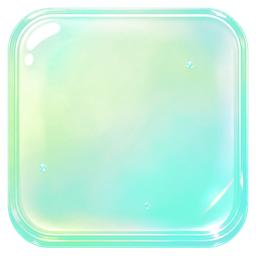
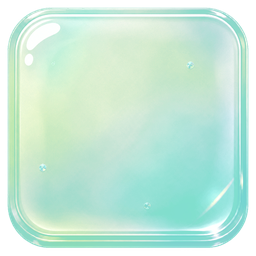
타일 팔레트를 지각 색공간에서 다시 맞춰 파스텔로 낮춤
HLS 가 잘못된 자였다. 여섯 장을 전부 HLS 채도 60% 로 맞춰 놓고 균일하다고
판단했는데, 실제 지각 채도는 13.9(peach)~24.5(lilac), 지각 명도는
L* 83.5~93.2 로 벌어져 있었다. 같은 HLS 수치에서 노랑과 초록은 파랑이나
분홍보다 훨씬 밝고 훨씬 진하게 안착한다. 그래서 lemon 과 mint 만 형광처럼
튀고 나머지는 죽어 보였다. 측정값은 균일한데 눈에는 전혀 아니었다.

CIELAB 으로 옮겼다. L*C*h 는 지각적으로 고르므로 같은 수치가 눈에도 같다.
여섯 장을 L*89 로 통일하고 채도를 파스텔 수준으로 낮췄다.
결과: L* 88.9~89.1 (편차 0.2), C* 13.4~19.0.

채도를 하나로 통일하지는 않았다. 같은 C* 에서 노랑과 주황은 베이지처럼
탁해 보이고 파랑과 보라는 과해 보인다. 따뜻한 쪽에 몇 점 더 준다.

앞 커밋에서 lemon 을 #E8EE72 로 옮긴 것은 과교정이었다. peach 와 분리되기는
하지만(h* 104) 노랑-초록 구간이라 파스텔 채도에서는 카키로 읽힌다. 노랑은
올리브와 애시드 사이 여유가 거의 없다. #FFE178(h* 91) 이 그 안이다.
peach 도 #FFA678(h* 59) 로 옮겨 둘 사이를 32도로 벌렸다. 원조 조합은
Lab 에서 8도 차이였으므로 붙어 있다는 판단 자체는 맞았고, 옮긴 거리가
틀렸던 것이다.

L*89 는 숫자가 정한 하한이다. 잉크 #425374 기준 5.66:1 이고 L*80 까지
내려가면 4.48:1 로 WCAG AA 를 통과하지 못한다.

검증: npm test 71/71, npm run build, 4개 해상도 x 4개 스테이지 이상 없음.

Claude-Session: https://claude.ai/code/session_018PNvCciUPJyfMsFQNjkdTe

Changed region(s): [[0.4688, 0.7188, 0.8438, 0.9688], [0.875, 0.4375, 0.9688, 0.9375]]

diff --git a/tools/build-tiles-v5.py b/tools/build-tiles-v5.py
@@ -1,26 +1,29 @@
 #!/usr/bin/env python3
-"""Build the v5 syrup tiles: one saturation, evenly spaced hues.
+"""Build the v5 syrup tiles: one pastel family, measured in CIELAB.
 
-The v4 set graded the master toward six hand-picked colors at a fixed blend
-strength. Because those colors did not share a saturation, the finished tiles
-landed anywhere from 7.9% (aqua) to 82.3% (peach) — half the board read as
-colour and half read as grime, which is what made the board look stained
-rather than rainbow. Three of the six hues also sat within 33 degrees of each
-other, so the set spent its variety in the orange wedge and had nothing left
-for the cool end.
+The v4 set graded the master toward six hand-picked colours at a fixed blend
+strength. Because those colours did not share a saturation, the finished tiles
+landed anywhere from 7.9% to 82.3% — half the board read as colour and half
+read as grime, which is what made the board look stained rather than pretty.
 
-v5 fixes the palette by construction. Hues are spaced around the wheel, and the
-blend strength for each tile is solved numerically so every finished tile
-measures the same face saturation. Lightness is then normalised so the numerals
-keep one contrast ratio everywhere on the board.
+v5 grades the same master toward the same approved palette and then normalises
+what the tile actually measures, so the set is even by construction rather than
+by luck. Two corrections sit on top of that: the warm pair moves apart, because
+peach and lemon were eight degrees from each other, and chroma varies slightly
+per hue, because equal chroma does not look equal.
 
-Colour carries no game meaning in v5 — js/ui.js assigns it from the cell's
-position, never its value — so the palette only has to be calm and even.
+The ruler is L*C*h, not HLS. Normalising on HLS saturation produced a set that
+measured uniform and looked fluorescent: at identical HLS numbers, yellow and
+green land far lighter and far more chromatic than blue or pink. See the notes
+on CONCEPT_PALETTE and TARGET_LIGHTNESS_LAB for the numbers.
+
+Colour carries no game meaning — js/ui.js assigns it from the cell's position,
+never its value — so the palette only has to be calm and even.
 """
 
 from __future__ import annotations
 
-import colorsys
+import math
 from pathlib import Path
 
 from PIL import Image, ImageChops, ImageOps
@@ -42,38 +45,56 @@ OUT = ROOT / "assets/ui/tiles-syrup-v5"
 #   mint  #7FD6C2  166°     orange and the set had no yellow at all
 #   aqua  #8DB7FF  218°     lilac #C9B0FF  259°
 #
-# `lemon` moves to a true yellow and keeps its light, buttery character. The
-# other five are untouched.
+# Measured in CIELAB the two warm tiles really were on top of each other, so
+# both move; the cool four are untouched. Rendered hues, h*:
 #
-# Targets are aimed, not final: the master carries a warm cast of its own, so a
-# target lands a few degrees below where it is aimed and yellows drift hardest.
-# `lemon` is aimed at 63° to render at 55°, which is where it finally separates
-# from peach. The build prints both numbers, so re-aim against that table rather
-# than against the hex.
+#   peach #FFB766 -> 74    lemon #FFDFA6 -> 82    eight degrees apart
+#   peach #FFA678 -> 59    lemon #FFE178 -> 91    thirty-two, and both clean
+#
+# An earlier pass aimed lemon at #E8EE72, which does separate (h* 104) but lands
+# in yellow-green: at pastel chroma that reads as khaki, not as lemon. Yellow
+# has very little room between "olive" and "acid", and h* 91 is inside it.
+#
+# The second number is each tile's chroma, and it is deliberately not constant.
+# Equal C* across the wheel does not look equal: yellow and orange go beige and
+# dirty at the chroma that keeps blue and violet from turning garish. The warm
+# tiles carry a few points more so the whole set reads as one pastel family.
+#
+# Targets are aimed, not final — the master has a warm cast, so a tile renders a
+# little below where it is aimed. The build prints both, so re-aim against that
+# table rather than against the hex.
 CONCEPT_PALETTE = {
-    "blush": (255, 123, 168),
-    "peach": (255, 183, 102),
-    "lemon": (232, 238, 114),
-    "mint": (127, 214, 194),
-    "aqua": (141, 183, 255),
-    "lilac": (201, 176, 255),
+    "blush": ((255, 123, 168), 15.0),
+    "peach": ((255, 166, 120), 19.0),
+    "lemon": ((255, 225, 120), 19.0),
+    "mint": ((127, 214, 194), 16.0),
+    "aqua": ((141, 183, 255), 15.0),
+    "lilac": ((201, 176, 255), 15.0),
 }
 
-# Measured on the tile face (centre 40%), matching how the v4 set was audited.
+# Measured on the tile face (centre 40%) in CIELAB, not HLS.
 #
-# Saturation is capped by the numerals, not by taste. The ink is #425374, and
-# the tile has to stay light enough underneath it to clear WCAG AA (4.5:1).
-# Measured at hue 52° (yellow, the worst case of the six):
+# HLS was the wrong ruler. Holding all six at 60% HLS saturation produced a set
+# whose perceived chroma ranged 13.9 (peach) to 24.5 (lilac) and whose perceived
+# lightness ranged L* 83.5 to 93.2. Yellow and green land far lighter and far
+# more chromatic than blue or pink at identical HLS numbers, so lemon and mint
+# read as fluorescent while the rest read as muted — a set that measured uniform
+# and looked nothing of the sort.
 #
-#   saturation 60% / lightness 86%   ->  5.07:1   ok
-#   saturation 70% / lightness 82%   ->  4.36:1   fails AA
-#   saturation 78% / lightness 78%   ->  3.74:1   fails AA
+# L*C*h is perceptually even, so equal numbers here mean equal to the eye.
 #
-# So the board cannot get its contrast from deeper tiles. It gets it from
-# css/ui-chrome.css instead, which pushes the painted chrome behind the board
-# back so the tiles are the only saturated thing on screen.
-TARGET_SATURATION = 0.60
-TARGET_LIGHTNESS = 0.86
+# Chroma is set per tile in CONCEPT_PALETTE above; BASE_CHROMA is the floor the
+# cool hues sit on. L* is shared by all six and is bounded below by the
+# numerals — the ink is #425374 and the tile has to stay light enough beneath it
+# to clear WCAG AA (4.5:1):
+#
+#   L* 90  ->  5.79:1      L* 86  ->  5.24:1
+#   L* 89  ->  5.66:1      L* 80  ->  4.48:1   fails AA
+#
+# So the board cannot get contrast from deeper tiles. It would have to come
+# from pushing the painted chrome behind the board back instead.
+BASE_CHROMA = 15.0
+TARGET_LIGHTNESS_LAB = 89.0
 
 
 def normalized_master() -> Image.Image:
@@ -110,6 +131,47 @@ def face_pixels(image: Image.Image) -> list[tuple[int, int, int, int]]:
     return [pixel for pixel in face.getdata() if pixel[3] > 200]
 
 
+_WHITE = (0.95047, 1.0, 1.08883)
+
+
+def _to_linear(channel: float) -> float:
+    v = channel / 255
+    return v / 12.92 if v <= 0.04045 else ((v + 0.055) / 1.055) ** 2.4
+
+
+def _from_linear(value: float) -> float:
+    v = value if value > 0 else 0.0
+    v = 12.92 * v if v <= 0.0031308 else 1.055 * (v ** (1 / 2.4)) - 0.055
+    return min(255.0, max(0.0, v * 255))
+
+
+def rgb_to_lab(red: float, green: float, blue: float) -> tuple[float, float, float]:
+    r, g, b = _to_linear(red), _to_linear(green), _to_linear(blue)
+    x = (r * 0.4124564 + g * 0.3575761 + b * 0.1804375) / _WHITE[0]
+    y = (r * 0.2126729 + g * 0.7151522 + b * 0.0721750) / _WHITE[1]
+    z = (r * 0.0193339 + g * 0.1191920 + b * 0.9503041) / _WHITE[2]
+
+    def f(t: float) -> float:
+        return t ** (1 / 3) if t > 0.008856 else 7.787 * t + 16 / 116
+
+    fx, fy, fz = f(x), f(y), f(z)
+    return 116 * fy - 16, 500 * (fx - fy), 200 * (fy - fz)
+
+
+def lab_to_rgb(lightness: float, a: float, b: float) -> tuple[float, float, float]:
+    fy = (lightness + 16) / 116
+    fx, fz = fy + a / 500, fy - b / 200
+
+    def g(t: float) -> float:
+        return t ** 3 if t ** 3 > 0.008856 else (t - 16 / 116) / 7.787
+
+    x, y, z = g(fx) * _WHITE[0], g(fy) * _WHITE[1], g(fz) * _WHITE[2]
+    r = x * 3.2404542 + y * -1.5371385 + z * -0.4985314
+    gg = x * -0.9692660 + y * 1.8760108 + z * 0.0415560
+    bb = x * 0.0556434 + y * -0.2040259 + z * 1.0572252
+    return _from_linear(r), _from_linear(gg), _from_linear(bb)
+
+
 def mean_rgb(image: Image.Image) -> tuple[float, float, float]:
     pixels = face_pixels(image)
     count = len(pixels)
@@ -118,38 +180,40 @@ def mean_rgb(image: Image.Image) -> tuple[float, float, float]:
             sum(p[2] for p in pixels) / count)
 
 
-def measure(image: Image.Image) -> tuple[float, float]:
-    red, green, blue = mean_rgb(image)
-    _, lightness, saturation = colorsys.rgb_to_hls(red / 255, green / 255, blue / 255)
-    return saturation, lightness
+def measure(image: Image.Image) -> tuple[float, float, float]:
+    """Mean lightness, chroma and hue of the tile face, in L*C*h."""
+    lightness, a, b = rgb_to_lab(*mean_rgb(image))
+    return lightness, math.hypot(a, b), math.degrees(math.atan2(b, a)) % 360
 
 
-def normalize(image: Image.Image) -> Image.Image:
+def normalize(image: Image.Image, target_chroma: float = BASE_CHROMA) -> Image.Image:
     """Scale saturation and shift lightness so the face lands on the targets.
 
-    Blend strength alone cannot do this: the master already measures 65.8%
-    saturation, so no amount of blending toward a warm hue brings blush, peach
-    or lemon down to 45%. Saturation is scaled by one shared factor and
-    lightness shifted by one shared offset, which moves the whole tile onto the
-    target while leaving the master's own shading — and the multicoloured
-    refraction inside the syrup — intact.
+    Blend strength alone cannot do this: the master carries chroma of its own,
+    so no amount of blending toward a pale hue lands every tile in the same
+    place. Chroma is scaled by one shared factor and lightness shifted by one
+    shared offset, which moves the whole tile onto the target while leaving the
+    master's own shading — and the iridescent refraction inside the syrup —
+    intact, since both operations preserve relative variation.
     """
-    saturation, lightness = measure(image)
-    factor = TARGET_SATURATION / saturation if saturation > 0 else 1.0
-    delta = TARGET_LIGHTNESS - lightness
+    lightness, chroma, _ = measure(image)
+    factor = target_chroma / chroma if chroma > 0 else 1.0
+    delta = TARGET_LIGHTNESS_LAB - lightness
 
+    cache: dict[tuple[int, int, int], tuple[int, int, int]] = {}
     out = []
     for red, green, blue, alpha in image.getdata():
         if alpha == 0:
             out.append((red, green, blue, alpha))
             continue
-        hue, pixel_l, pixel_s = colorsys.rgb_to_hls(red / 255, green / 255, blue / 255)
-        nr, ng, nb = colorsys.hls_to_rgb(
-            hue,
-            min(1.0, max(0.0, pixel_l + delta)),
-            min(1.0, pixel_s * factor),
-        )
-        out.append((round(nr * 255), round(ng * 255), round(nb * 255), alpha))
+        key = (red, green, blue)
+        moved = cache.get(key)
+        if moved is None:
+            pixel_l, a, b = rgb_to_lab(red, green, blue)
+            nr, ng, nb = lab_to_rgb(min(100.0, max(0.0, pixel_l + delta)), a * factor, b * factor)
+            moved = (round(nr), round(ng), round(nb))
+            cache[key] = moved
+        out.append((*moved, alpha))
     result = Image.new("RGBA", image.size)
     result.putdata(out)
     return result
@@ -160,24 +224,24 @@ def normalize(image: Image.Image) -> Image.Image:
 GRADE_STRENGTH = 0.85
 
 
-def grade(master: Image.Image, target_rgb: tuple[int, int, int]) -> Image.Image:
-    return normalize(tint_preserving_iridescence(master, target_rgb, GRADE_STRENGTH))
+def grade(master: Image.Image, target_rgb: tuple[int, int, int],
+          chroma: float = BASE_CHROMA) -> Image.Image:
+    return normalize(tint_preserving_iridescence(master, target_rgb, GRADE_STRENGTH), chroma)
 
 
 def main() -> None:
     OUT.mkdir(parents=True, exist_ok=True)
     master = normalized_master()
 
-    print(f"{'tile':8} {'target':9} {'saturation':>11} {'lightness':>10} {'hue':>6}")
-    print("-" * 50)
-    for name, target in CONCEPT_PALETTE.items():
-        compact = grade(master, target).resize((256, 256), Image.Resampling.LANCZOS)
+    print(f"{'tile':8} {'target':9} {'L*':>7} {'C*':>7} {'h':>7}")
+    print("-" * 42)
+    for name, (target, chroma) in CONCEPT_PALETTE.items():
+        compact = grade(master, target, chroma).resize((256, 256), Image.Resampling.LANCZOS)
         compact.save(OUT / f"tile-{name}.png", optimize=True)
         compact.save(OUT / f"tile-{name}.webp", format="WEBP", lossless=True, method=6)
-        saturation, lightness = measure(compact)
-        hue = colorsys.rgb_to_hls(*[c / 255 for c in mean_rgb(compact)])[0] * 360
+        lightness, chroma, hue = measure(compact)
         print(f"{name:8} #{target[0]:02X}{target[1]:02X}{target[2]:02X}  "
-              f"{saturation * 100:10.1f}% {lightness * 100:9.1f}% {hue:5.0f}°")
+              f"{lightness:7.1f} {chroma:7.1f} {hue:6.0f}°")
 
 
 if __name__ == "__main__":

diff --git a/ASSET_USAGE.md b/ASSET_USAGE.md
@@ -2,7 +2,7 @@
 
 배포 에셋은 `oing-toss-assets-v1/` 원본을 기준으로 사용했다. 캐릭터·아이콘·UI는 lossless WebP 원본을 유지하고, 배경 두 장만 실제 화면 비교 후 WebP quality 86으로 재압축했다. 콘셉트 보드나 마스터 시트의 일부는 다시 크롭하지 않았다.
 
-플레이 타일은 콘셉트 보드를 자르지 않고, 이미지 생성으로 만든 독립 `tile-master-v3`를 크로마키 제거한 뒤 512×512에서 색상·상태별 lossless WebP로 파생했다. 숫자는 계속 HTML 텍스트로 렌더링한다.
+플레이 타일은 콘셉트 보드를 자르지 않고, 이미지 생성으로 만든 독립 마스터를 크로마키 제거한 뒤 색상·상태별 lossless WebP로 파생했다. 타일 색은 숫자가 아니라 칸 위치가 정하므로(`js/ui.js`) 색이 답을 알려주지 않는다. 숫자는 계속 HTML 텍스트로 렌더링한다.
 
 하단 아이템은 숫자 타일 에셋과 분리한 4개의 작은 토이 버튼으로 통일했다. 버튼 셸은 CSS로 크림·민트·코랄·하늘색의 도톰한 표면과 눌림 깊이를 만들고, 아이콘·이름·남은 횟수는 독립 이미지와 HTML 텍스트로 렌더링한다.
 
@@ -25,12 +25,12 @@
 | `assets/ui/logo.webp` | `oing-toss-assets-v1/assets/ui/logo.webp` | 홈 로고 | 142–212px |
 | `assets/ui/button-settings.webp` | `oing-toss-assets-v1/assets/ui/button-settings.webp` | 홈 설정 | 39–44px |
 | `assets/ui/button-pause.webp` | `oing-toss-assets-v1/assets/ui/button-pause.webp` | 플레이 일시정지 | 43–48px |
-| `assets/ui/tiles-syrup-v5/tile-blush.webp` | 컨셉보드 승인색 `#FF7BA8`를 `tools/build-tiles-v5.py`로 마스터에 재계조 | 보드 타일 350° | 256×256 원본, 셀 약 44–59px |
-| `assets/ui/tiles-syrup-v5/tile-peach.webp` | 컨셉보드 승인색 `#FFB766`를 `tools/build-tiles-v5.py`로 마스터에 재계조 | 보드 타일 31° | 256×256 원본, 셀 약 44–59px |
-| `assets/ui/tiles-syrup-v5/tile-lemon.webp` | 컨셉보드 승인색 `#E8EE72`를 `tools/build-tiles-v5.py`로 마스터에 재계조 | 보드 타일 55° | 256×256 원본, 셀 약 44–59px |
-| `assets/ui/tiles-syrup-v5/tile-mint.webp` | 컨셉보드 승인색 `#7FD6C2`를 `tools/build-tiles-v5.py`로 마스터에 재계조 | 보드 타일 146° | 256×256 원본, 셀 약 44–59px |
-| `assets/ui/tiles-syrup-v5/tile-aqua.webp` | 컨셉보드 승인색 `#8DB7FF`를 `tools/build-tiles-v5.py`로 마스터에 재계조 | 보드 타일 222° | 256×256 원본, 셀 약 44–59px |
-| `assets/ui/tiles-syrup-v5/tile-lilac.webp` | 컨셉보드 승인색 `#C9B0FF`를 `tools/build-tiles-v5.py`로 마스터에 재계조 | 보드 타일 286° | 256×256 원본, 셀 약 44–59px |
+| `assets/ui/tiles-syrup-v5/tile-blush.webp` | 컨셉보드 승인색 `#FF7BA8`를 `tools/build-tiles-v5.py`로 마스터에 재계조 | 보드 타일 L*89 C*14 h8° | 256×256 원본, 셀 약 44–59px |
+| `assets/ui/tiles-syrup-v5/tile-peach.webp` | 컨셉보드 승인색 `#FFA678`를 `tools/build-tiles-v5.py`로 마스터에 재계조 | 보드 타일 L*89 C*19 h59° | 256×256 원본, 셀 약 44–59px |
+| `assets/ui/tiles-syrup-v5/tile-lemon.webp` | 컨셉보드 승인색 `#FFE178`를 `tools/build-tiles-v5.py`로 마스터에 재계조 | 보드 타일 L*89 C*19 h91° | 256×256 원본, 셀 약 44–59px |
+| `assets/ui/tiles-syrup-v5/tile-mint.webp` | 컨셉보드 승인색 `#7FD6C2`를 `tools/build-tiles-v5.py`로 마스터에 재계조 | 보드 타일 L*89 C*16 h158° | 256×256 원본, 셀 약 44–59px |
+| `assets/ui/tiles-syrup-v5/tile-aqua.webp` | 컨셉보드 승인색 `#8DB7FF`를 `tools/build-tiles-v5.py`로 마스터에 재계조 | 보드 타일 L*89 C*13 h273° | 256×256 원본, 셀 약 44–59px |
+| `assets/ui/tiles-syrup-v5/tile-lilac.webp` | 컨셉보드 승인색 `#C9B0FF`를 `tools/build-tiles-v5.py`로 마스터에 재계조 | 보드 타일 L*89 C*15 h318° | 256×256 원본, 셀 약 44–59px |
 | `assets/icons/navigation/trophy.webp` | `oing-toss-assets-v1/assets/icons/trophy.webp` | 홈·결과 랭킹 | 27px |
 | `assets/icons/navigation/home.webp` | `oing-toss-assets-v1/assets/icons/home.webp` | 결과 홈으로 | 24px |
 | `assets/icons/hud/score.webp` | `oing-toss-assets-v1/assets/icons/coin.webp` | 점수 HUD | 22px |
@@ -64,7 +64,7 @@
 | `assets/ui/tile-disabled.webp` | 보드에 disabled 타일 상태가 아직 없다. |
 | `assets/ui/tile-{normal,selected,success,hint,empty}.webp` | 독립 시럽 타일 세트로 교체해 보존만 한다. |
 | `assets/ui/tiles-v3/` 전체 | 이전 밀키 글라스 후보 세트다. 현재 게임은 `tiles-syrup-v5` 6종을 사용한다. |
-| `assets/ui/tiles-syrup-v4/` 전체 | 채도가 7.9%~82.3%로 흩어져 절반은 색, 절반은 때처럼 보였고 blush·peach·lemon이 33° 안에 몰려 있었다. `tiles-syrup-v5`가 같은 컨셉보드 색을 같은 마스터에 다시 입히되 채도 60%·명도 86%로 통일해 대체한다. 원본만 보존한다. |
+| `assets/ui/tiles-syrup-v4/` 전체 | 채도가 7.9%~82.3%로 흩어져 절반은 색, 절반은 때처럼 보였고 blush·peach·lemon이 33° 안에 몰려 있었다. `tiles-syrup-v5`가 같은 컨셉보드 색을 같은 마스터에 다시 입히되 CIELAB에서 L*89로 통일하고 채도를 파스텔 수준(C*13~19)으로 낮춰 대체한다. HLS 채도로 맞추면 노랑·초록이 형광처럼 뜨기 때문에 지각 색공간에서 잰다. 원본만 보존한다. |
 | `assets/ui/item-buttons-v1/` 전체 | 긴 가로형 셸이라 4개 아이템을 한 줄에 배치하면 보드 공간을 압박한다. 정사각 시럽 슬롯으로 교체해 원본만 보존한다. |
 | `assets/decor/cloud.webp` | 배경 자체에 구름이 있어 중복 장식을 피했다. |
 | `assets/decor/flower.webp` | 배경 하단 꽃밭과 중복되어 사용하지 않았다. |
